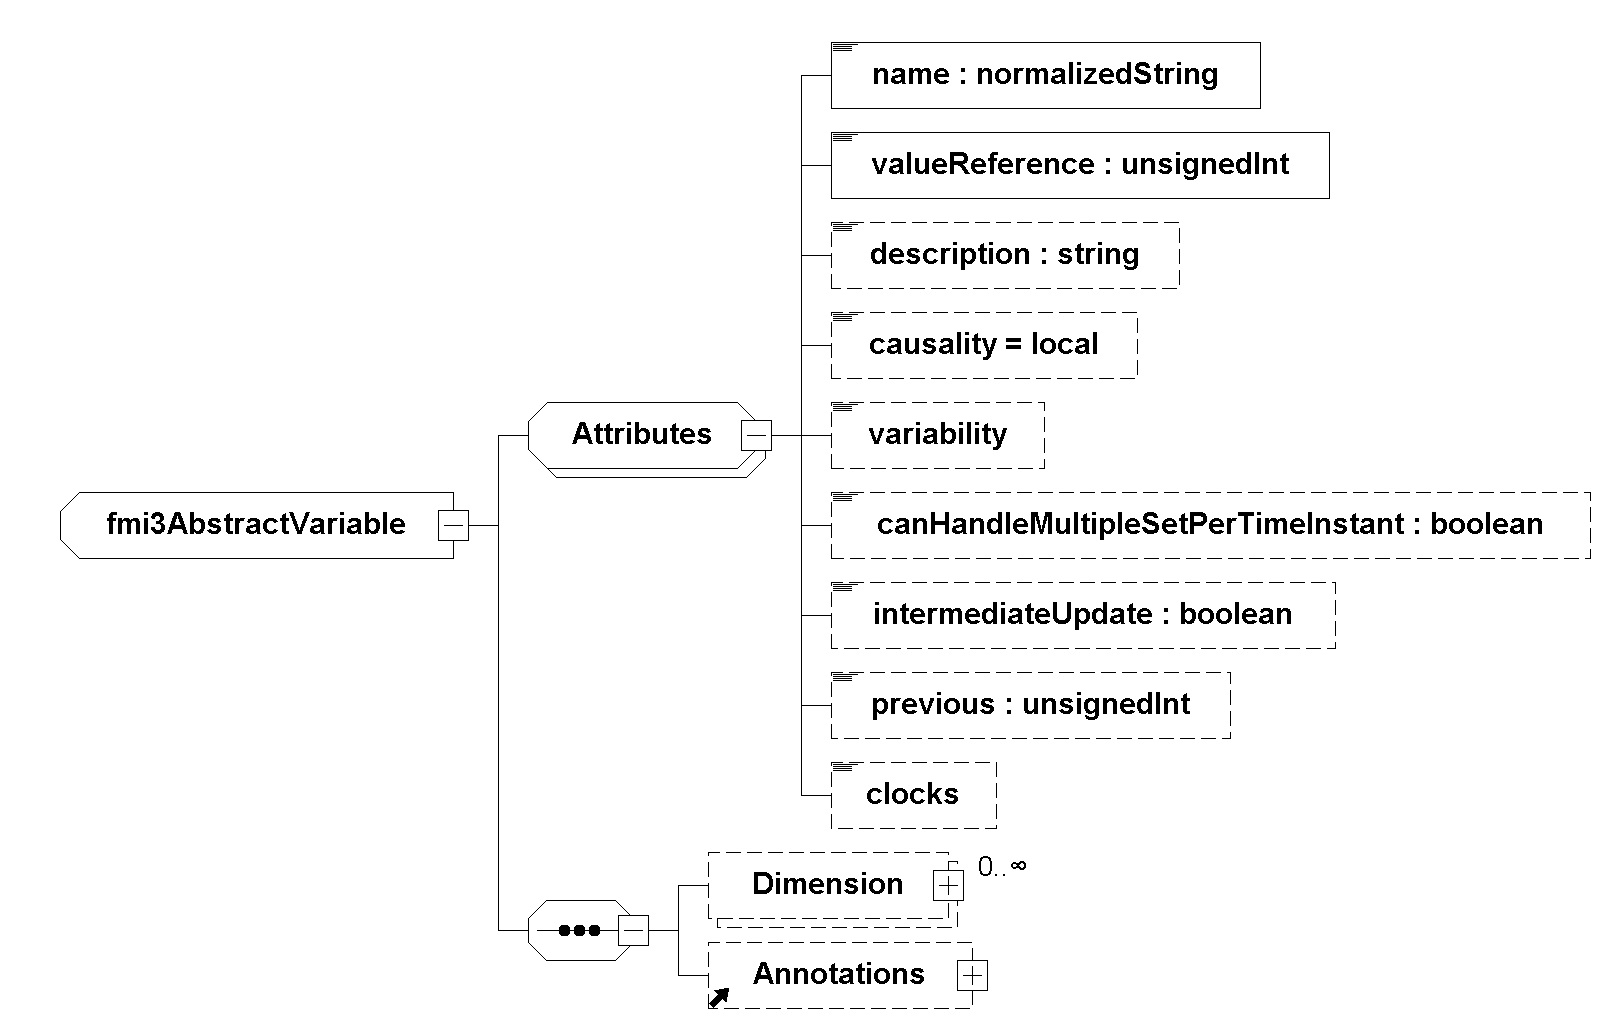
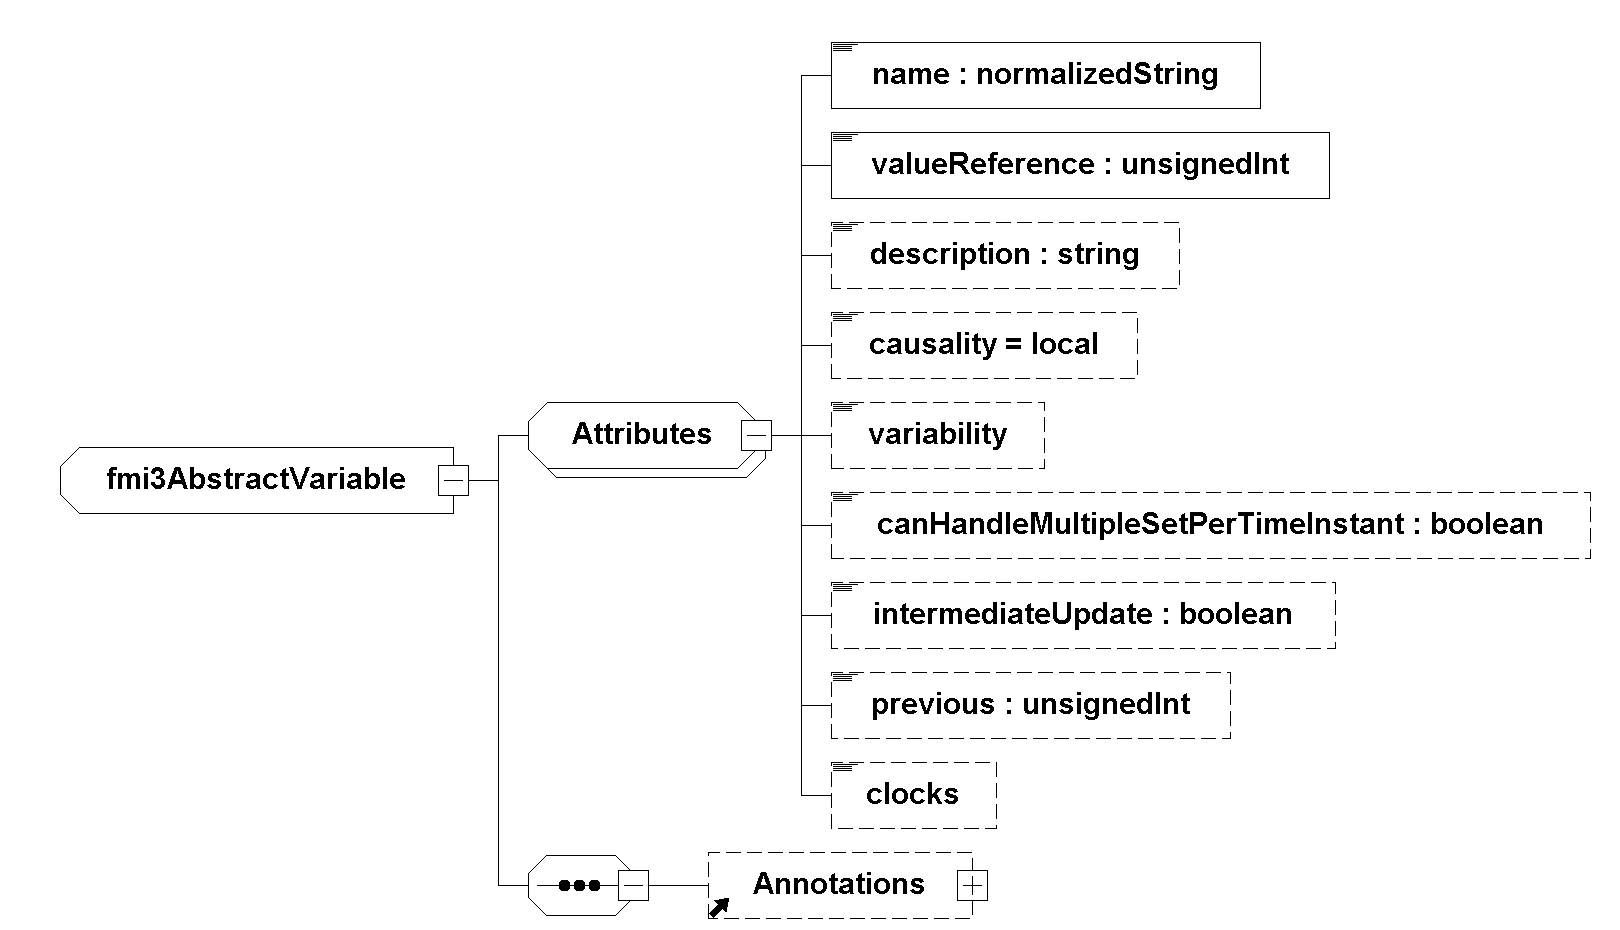
Update generated specification from fmi-standard (b74f5cb)

diff --git a/docs/3.0-dev/index.html b/docs/3.0-dev/index.html
@@ -587,8 +587,8 @@ document.addEventListener('keydown', (event) => {
 <div id="header">
 <h1>Functional Mock-up Interface Specification</h1>
 <div class="details">
-<span id="revnumber">version a28f1ab,</span>
-<span id="revdate">2021-11-25</span>
+<span id="revnumber">version b74f5cb,</span>
+<span id="revdate">2021-11-30</span>
 </div>
 <div id="toc" class="toc2">
 <div id="toctitle">Contents</div>
@@ -2070,7 +2070,8 @@ All variables are listed in the <a href="#definition-of-model-variables"><code>m
 <p>The attribute <a href="#causality"><code>causality</code></a> defines the direction of the information flow with respect to the FMU (e.g. <a href="#input"><code>input</code></a>, <a href="#output"><code>output</code></a>, <a href="#parameter"><code>parameter</code></a>).</p>
 </div>
 <div class="paragraph">
-<p>A variable can be a scalar or a multi-dimensional array.</p>
+<p>A variable, except for Clocks, can be a scalar or a multi-dimensional array.
+Clocks are always scalar.</p>
 </div>
 <div class="sect4">
 <h5 id="serialization-of_variables">2.2.6.1. Serialization of Array Variables</h5>
@@ -2720,7 +2721,8 @@ This allows different use cases to be implemented with different semantics.</p>
 <div class="sect4">
 <h5 id="_clock_types">2.2.9.2. Clock Types</h5>
 <div class="paragraph">
-<p>Clocks are <a href="#discrete"><code>discrete</code></a> <a href="#fmu-variables">variables</a> with a special semantic.</p>
+<p>Clocks are <a href="#discrete"><code>discrete</code></a> <a href="#fmu-variables">variables</a> with a special semantic.
+They are restricted to being scalar variables.</p>
 </div>
 <div id="intervalVariability" class="paragraph">
 <p>The variable&#8217;s XML attribute <a href="#intervalVariability"><code>intervalVariability</code></a> declares the type of Clock, described in detail after the table.</p>
@@ -6574,7 +6576,8 @@ The schema definition is present in a separate file <code>fmi3Variable.xsd</code
 <div class="sect4">
 <h5 id="_array_variables_and_structural_parameters">2.4.7.2. Array variables and structural parameters</h5>
 <div class="paragraph">
-<p>Variable elements representing array variables must contain at least one <code>&lt;Dimension&gt;</code> element.
+<p>Except for Clocks, variable elements can represent an array variable.
+Variable elements representing array variables must contain at least one <code>&lt;Dimension&gt;</code> element.
 Each <code>&lt;Dimension&gt;</code> element specifies the size of one dimension of the array:</p>
 </div>
 <div class="ulist">
@@ -11526,7 +11529,6 @@ The simulation algorithm can assume that <a href="#get-and-set-variable-values">
 <div class="content">
 <pre class="highlightjs highlight"><code class="language-C hljs" data-lang="C">typedef fmi3Status fmi3ActivateModelPartitionTYPE(fmi3Instance instance,
                                                   fmi3ValueReference clockReference,
-                                                  size_t clockElementIndex,
                                                   fmi3Float64 activationTime);</code></pre>
 </div>
 </div>
@@ -11539,12 +11541,6 @@ The simulation algorithm can assume that <a href="#get-and-set-variable-values">
 <p><a id="clockReference"></a> <code>clockReference</code>: <a href="#valueReference"><code>valueReference</code></a> of the <a href="#inputClock"><code>input Clock</code></a> associated to the model partition which shall be activated.</p>
 </li>
 <li>
-<p><a id="clockElementIndex"></a> <code>clockElementIndex</code>: The element index of the <a href="#Clock">Clock</a> variable associated with the model partition which shall be activated.
-For a scalar <a href="#Clock">Clock</a> variable the index must be 0; for an array <a href="#Clock">Clock</a> variable, the index is 1-based.
-Using the element index 0 means all elements of the <a href="#Clock">Clock</a> variable.
-(Note: If an array has more than one dimension the indices are serialized in the same order as defined for values in <a href="#serialization-of_variables">Section 2.2.6.1</a>).</p>
-</li>
-<li>
 <p><a id="activationTime"></a> <code>activationTime</code>: value of the <a href="#independent"><code>independent</code></a> variable of the assigned <a href="#Clock">Clock</a> tick time \(\mathbf{t}_i\) <em>[typically: simulation (i.e. virtual) time]</em> (which is known to the simulation algorithm).</p>
 <div class="paragraph">
 <p>The importer schedules calls of <a href="#fmi3ActivateModelPartition"><code>fmi3ActivateModelPartition</code></a> for each FMU.
@@ -11555,13 +11551,13 @@ The <a href="#fmi3ActivateModelPartition"><code>fmi3ActivateModelPartition</code
 <p><em>[Note, that other than <a href="#fmi3DoStep"><code>fmi3DoStep</code></a> for Co-Simulation, <a href="#fmi3ActivateModelPartition"><code>fmi3ActivateModelPartition</code></a> will compute the results of the model partition for the current <a href="#Clock">Clock</a> tick \(\mathbf{t}_i\).]</em></p>
 </div>
 <div class="paragraph">
-<p><em>[If required, the FMU can internally derive the <a href="#Clock">Clock</a> interval \(\mathbf{T}_\mathit{interval, i}\) based on the last <a href="#Clock">Clock</a> tick time \(\mathbf{t}_\mathit{i-1}\) i.e. last <a href="#activationTime"><code>activationTime</code></a> for this <a href="#clockReference"><code>clockReference</code></a> and <a href="#clockElementIndex"><code>clockElementIndex</code></a> (based on last <a href="#fmi3ActivateModelPartition"><code>fmi3ActivateModelPartition</code></a> call).]</em></p>
+<p><em>[If required, the FMU can internally derive the <a href="#Clock">Clock</a> interval \(\mathbf{T}_\mathit{interval, i}\) based on the last <a href="#Clock">Clock</a> tick time \(\mathbf{t}_\mathit{i-1}\) i.e. last <a href="#activationTime"><code>activationTime</code></a> for this <a href="#clockReference"><code>clockReference</code></a> (based on last <a href="#fmi3ActivateModelPartition"><code>fmi3ActivateModelPartition</code></a> call).]</em></p>
 </div>
 </li>
 </ul>
 </div>
 <div class="paragraph">
-<p>Consecutive calls to <a href="#fmi3ActivateModelPartition"><code>fmi3ActivateModelPartition</code></a> for a <a href="#clockReference"><code>clockReference</code></a> and <a href="#clockElementIndex"><code>clockElementIndex</code></a> (i.e. <a href="#valueReference"><code>valueReference</code></a> of <a href="#Clock">Clock</a> variable and element index into that for arrays) must have strictly monotonically increasing <a href="#activationTime"><code>activationTime</code></a> \(\mathbf{t}_i\).</p>
+<p>Consecutive calls to <a href="#fmi3ActivateModelPartition"><code>fmi3ActivateModelPartition</code></a> for a <a href="#clockReference"><code>clockReference</code></a> (i.e. <a href="#valueReference"><code>valueReference</code></a> of <a href="#Clock">Clock</a> variable) must have strictly monotonically increasing <a href="#activationTime"><code>activationTime</code></a> \(\mathbf{t}_i\).</p>
 </div>
 </dd>
 </dl>
@@ -11622,7 +11618,7 @@ The <a href="#activationTime"><code>activationTime</code></a> is provided by the
 <div class="content">
 <pre class="highlightjs highlight"><code class="language-C hljs" data-lang="C">void ExecuteModelPartition10ms() {
     fmi3SetFloat64(fmu, AInputReferences, 2, AInput, 2);
-    fmi3ActivateModelPartition(fmu, ClockReference10ms, ClockElementIndex, ActivationTime);
+    fmi3ActivateModelPartition(fmu, ClockReference10ms, ActivationTime);
     fmi3GetFloat64(fmu, AOutputReferences, 1, AOutput, 1);
 }</code></pre>
 </div>
@@ -11671,7 +11667,7 @@ By evaluating the returned values <a href="#qualifiers"><code>qualifiers</code><
 <div class="listingblock">
 <div class="content">
 <pre class="highlightjs highlight"><code class="language-C hljs" data-lang="C">fmi3Status fmi3ActivateModelPartition(fmi3Instance instance, fmi3ValueReference clockReference,
-    size_t clockElementIndex, fmi3Float64 activationTime) {
+    fmi3Float64 activationTime) {
 
     switch (clockReference) {
     case 5:    // Input clock 10msClock

diff --git a/docs/3.0-dev/examples/snippets.c b/docs/3.0-dev/examples/snippets.c
@@ -77,7 +77,6 @@ fmi3ValueReference ClockReference10ms = 5;
 
 fmi3Float64 ActivationTime = 0.0;
 
-size_t ClockElementIndex = 0;
 Environment *env;
 
 fmi3Instance fmu;
@@ -95,7 +94,7 @@ void activateModelPartitionAperiodic(fmi3Instance* instance, fmi3Float64 activat
 /*tag::SE_sa_task10ms[] */
 void ExecuteModelPartition10ms() {
     fmi3SetFloat64(fmu, AInputReferences, 2, AInput, 2);
-    fmi3ActivateModelPartition(fmu, ClockReference10ms, ClockElementIndex, ActivationTime);
+    fmi3ActivateModelPartition(fmu, ClockReference10ms, ActivationTime);
     fmi3GetFloat64(fmu, AOutputReferences, 1, AOutput, 1);
 }
 /* end::SE_sa_task10ms[] */
@@ -157,7 +156,7 @@ void activateModelPartition10ms(fmi3Instance instance, fmi3Float64 activationTim
 
 /* tag::SE_fmu_activateMP[] */
 fmi3Status fmi3ActivateModelPartition(fmi3Instance instance, fmi3ValueReference clockReference,
-    size_t clockElementIndex, fmi3Float64 activationTime) {
+    fmi3Float64 activationTime) {
 
     switch (clockReference) {
     case 5:    // Input clock 10msClock
